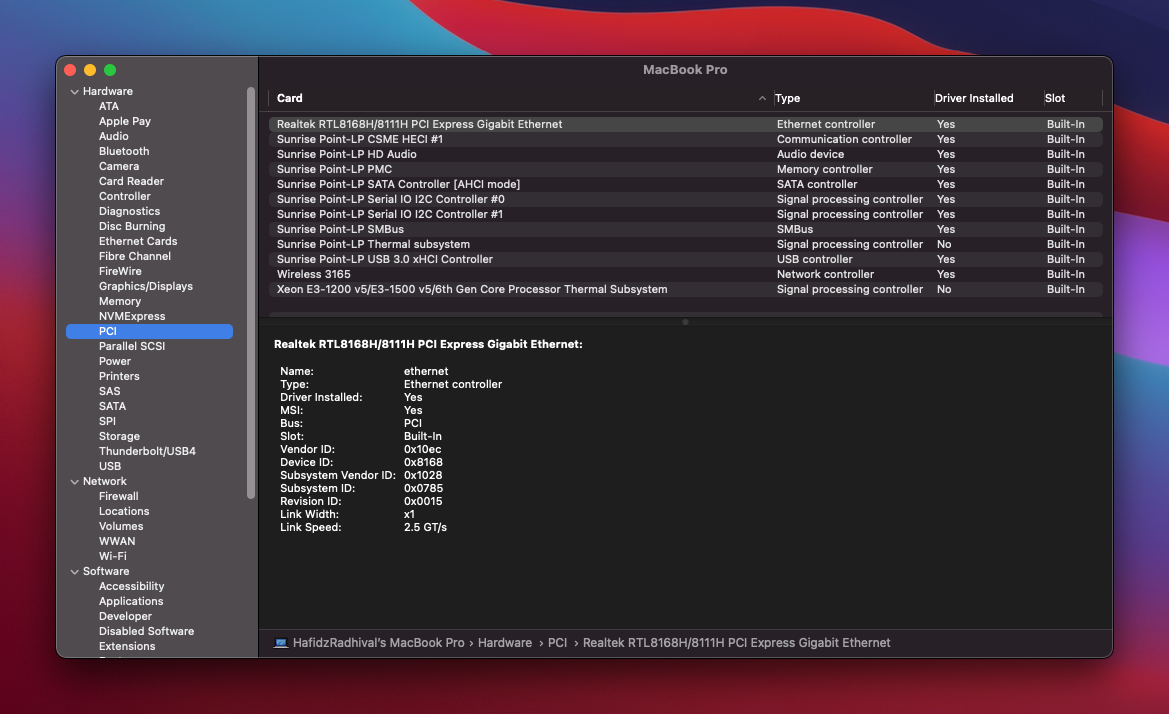
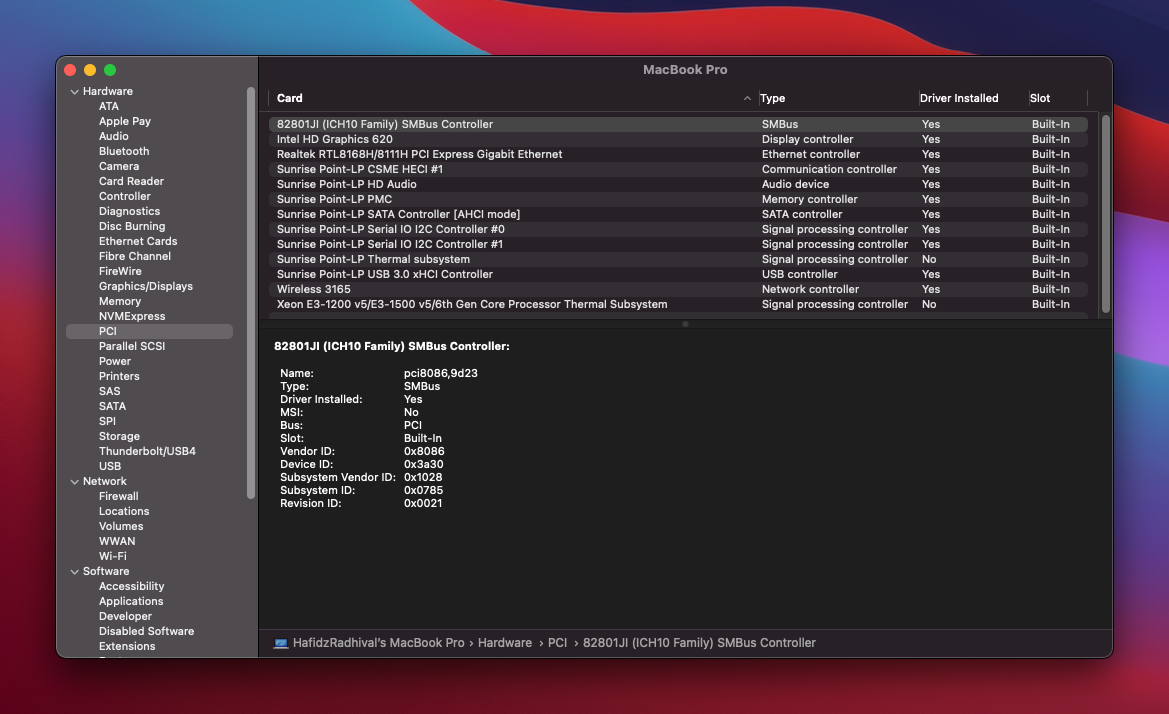
EFI: add more screenshot and keep hackintosh !!

diff --git a/README.md b/README.md
@@ -206,6 +206,8 @@ macOS Big Sur
 ![14](Screenshot/14.png)
 ![15](Screenshot/15.png)
 ![16](Screenshot/16.png)
+![17](Screenshot/17.png)
+![18](Screenshot/18.png)
 </details>
 
 ## Credit
